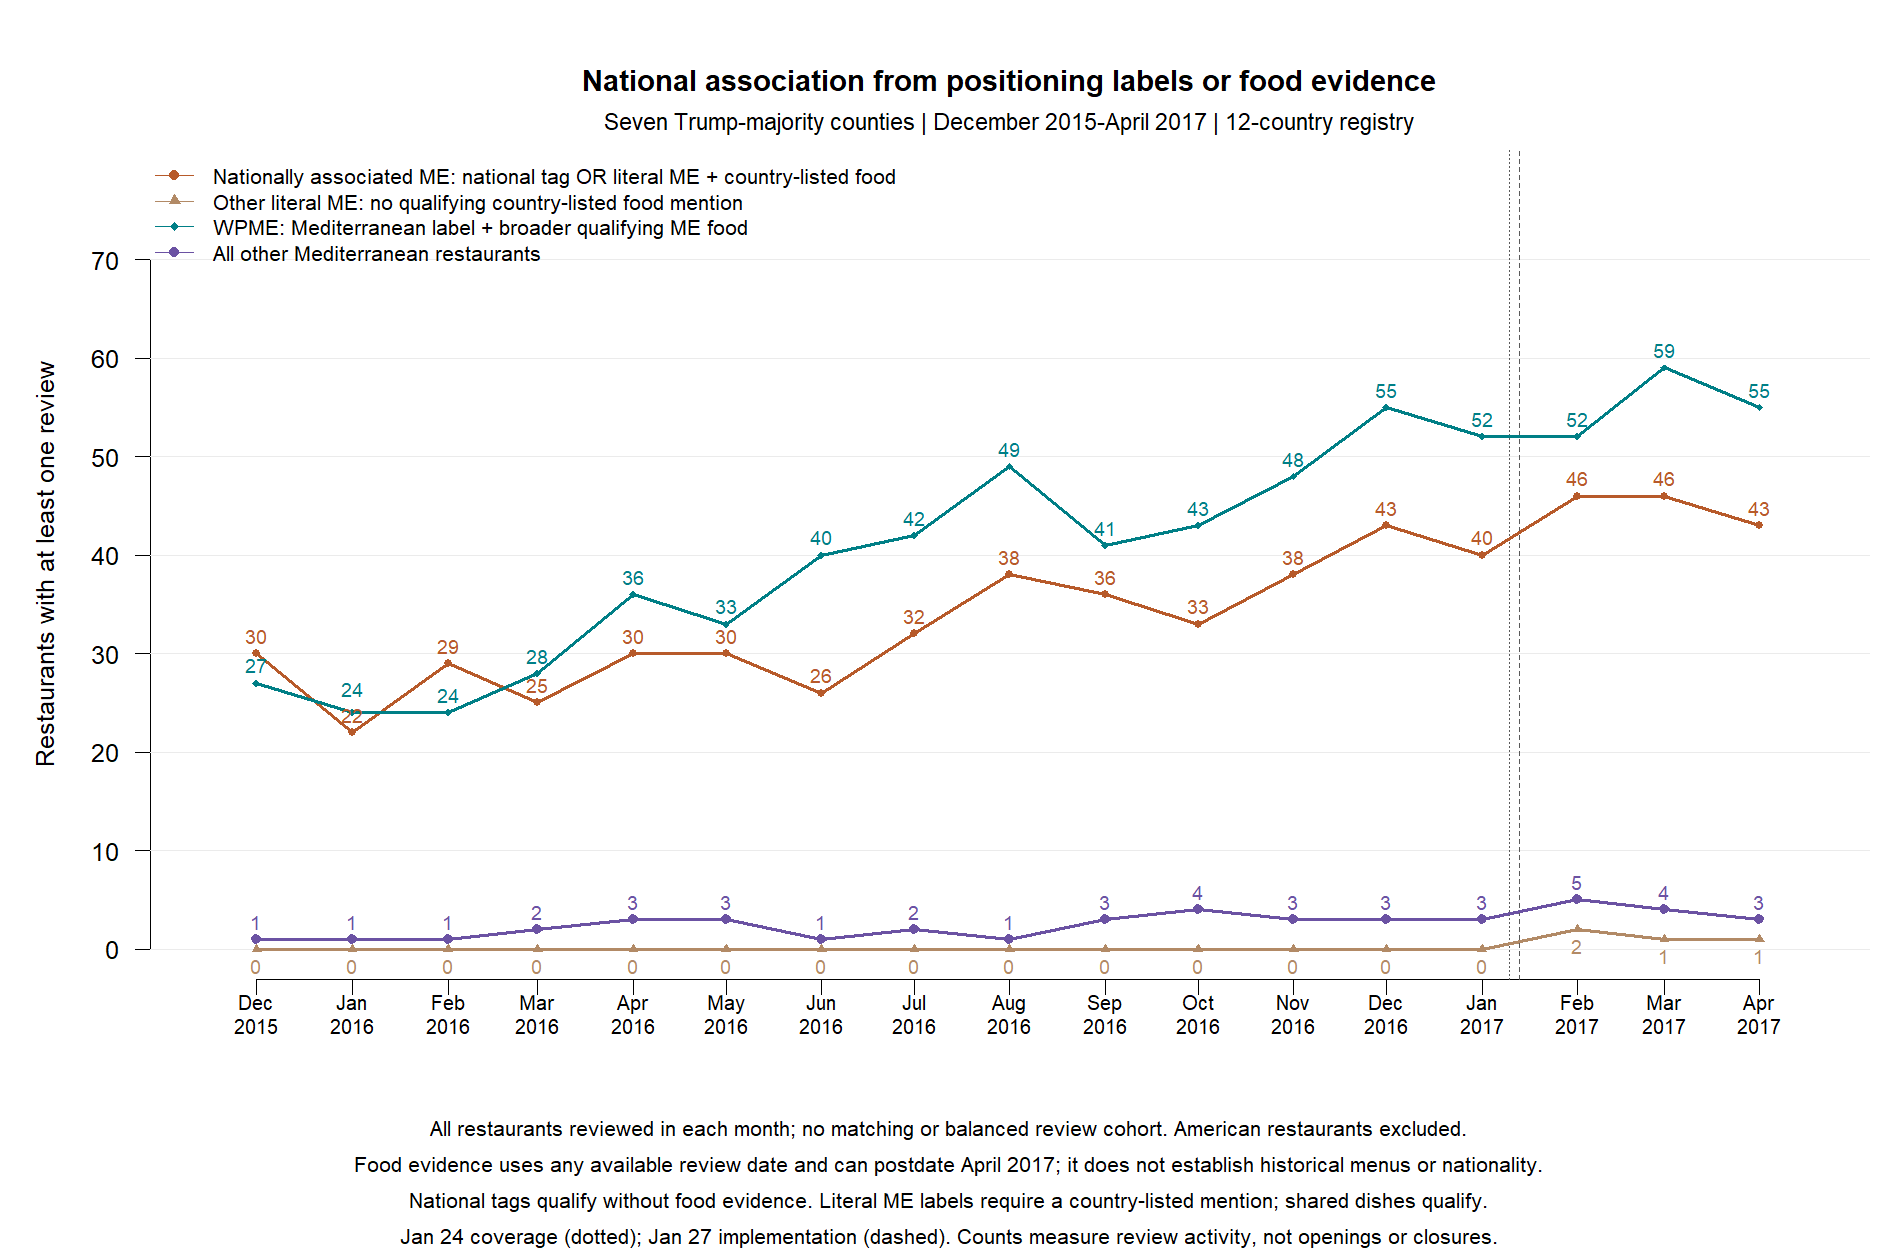
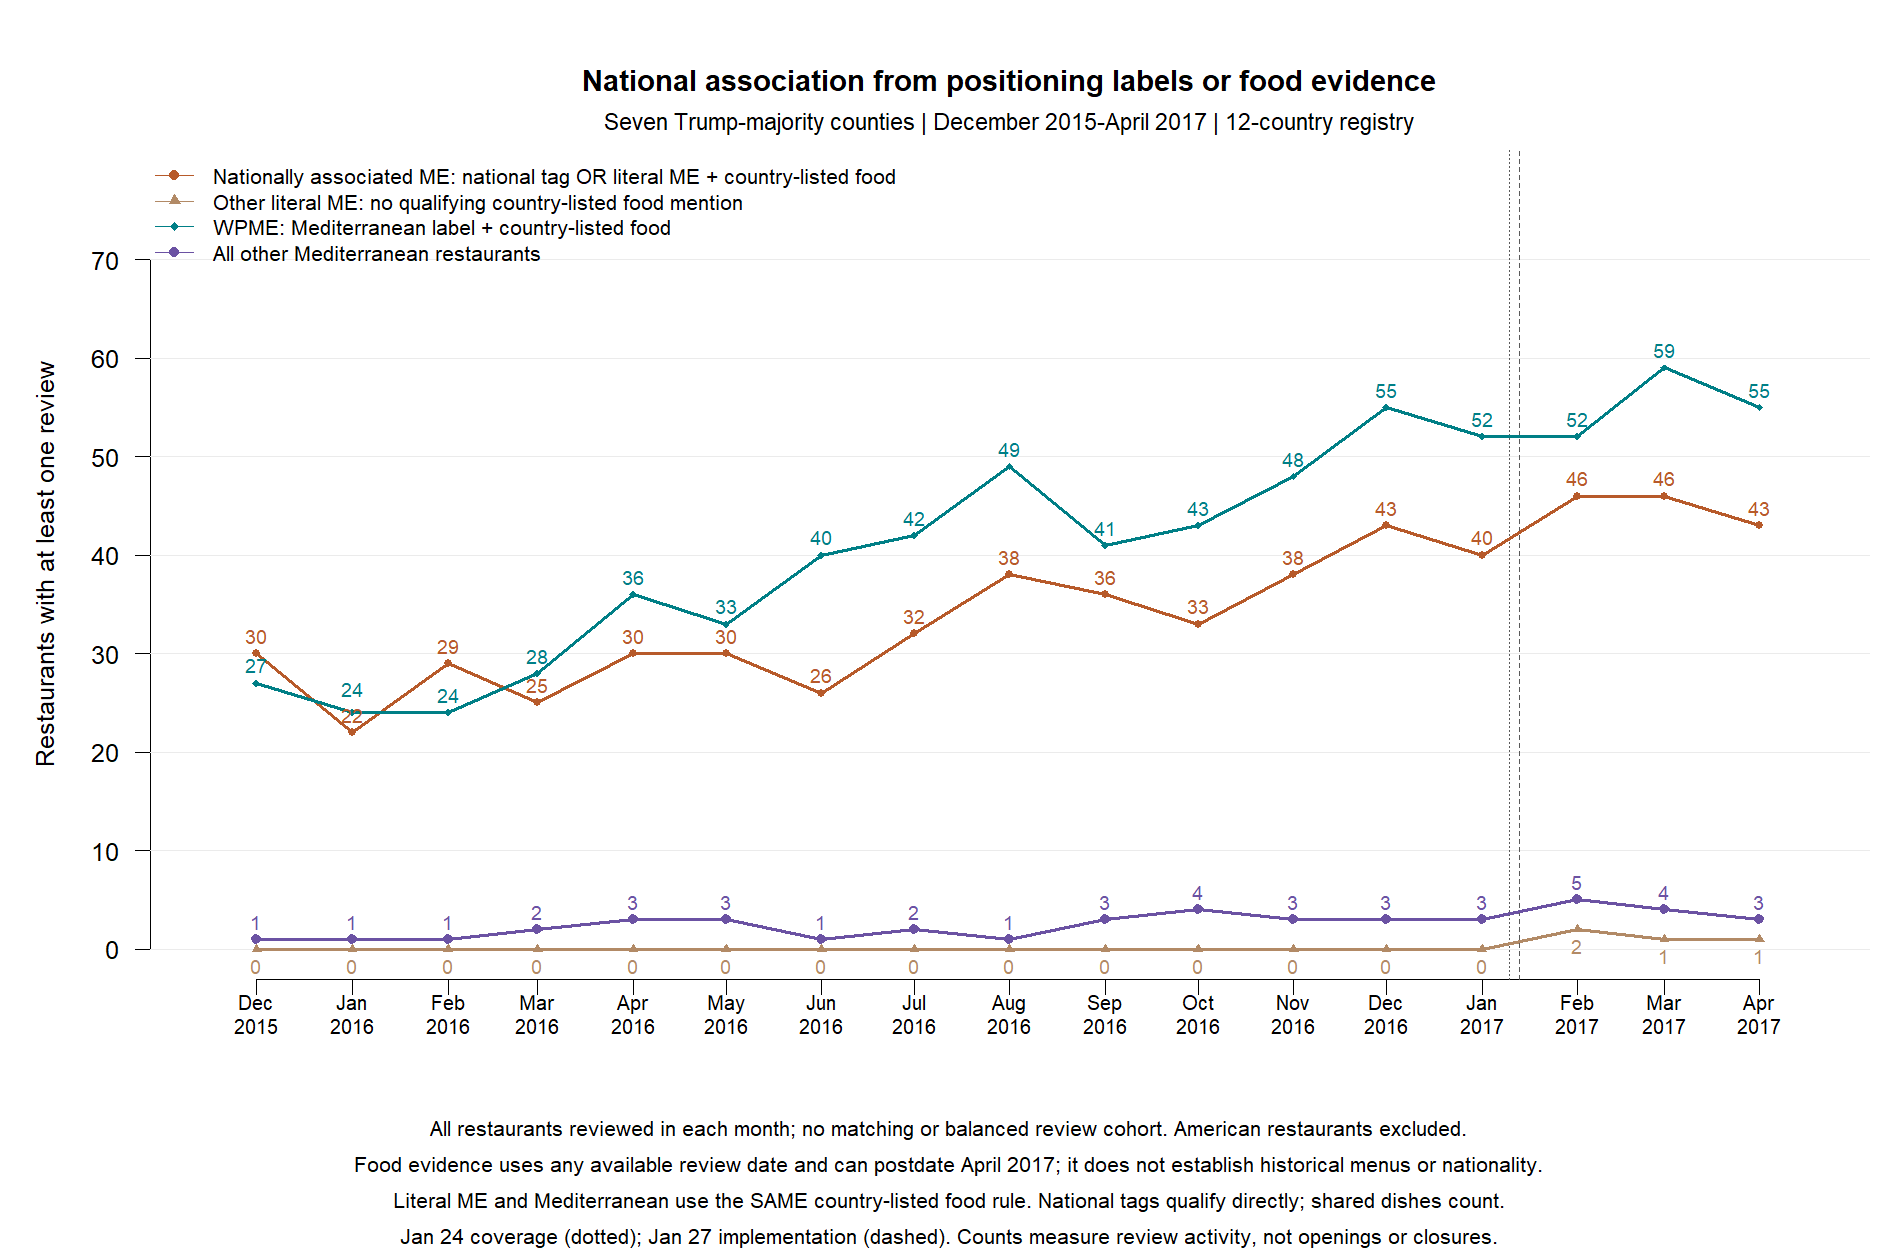
Align WPME with the same country-listed food rule used for literal ME

Changed region(s): [[0.2174, 0.936, 0.7763, 0.9672], [0.2484, 0.156, 0.4037, 0.1872]]

diff --git a/associational_analysis/19_country_registry.py b/associational_analysis/19_country_registry.py
@@ -99,7 +99,8 @@ for r in food:
     hits=[e for e in registry['entries'] if fs.intersection(e['feature_keys']) and e['country_list_qualifier']]
     cc=sorted({c for e in hits for c in e['countries']});tag=national_tags.get(category,'')
     eligible=bool(tag) or (category=='Middle Eastern restaurant' and bool(hits))
-    group='Nationally associated ME' if eligible else 'Other literal ME' if category=='Middle Eastern restaurant' else 'WPME' if r['broad_ME']=='1' else 'All other Mediterranean'
+    group='Nationally associated ME' if eligible else 'Other literal ME' if category=='Middle Eastern restaurant' else 'WPME' if hits else 'All other Mediterranean'
+    if category=='Mediterranean restaurant':assert (group=='WPME')==bool(hits)
     assert category in national_tags or category in ['Middle Eastern restaurant','Mediterranean restaurant']
     route='national tag + food evidence' if tag and hits else 'national tag only' if tag else 'literal ME + food evidence' if eligible else 'outside nationally associated group'
     assign.append(dict(gmap_id=g,primary_category=category,group=group,route=route,label_country=tag,food_countries='|'.join(cc),country_dish_ids='|'.join(e['dish_id'] for e in hits),active_in_plot=int(g in active)))

diff --git a/associational_analysis/README.md b/associational_analysis/README.md
@@ -147,10 +147,12 @@ The user explicitly added **baba ghanoush, shawarma, tabbouleh, labneh, zaatar, 
 
 Run `19_country_registry.py`, then `20_national_association_figure.R`. The versioned `dictionaries/country_food_registry_v1.json` separates broader ME eligibility from documented country-list membership. It preserves original country sources with an inherited-source flag and adds checked sources for Afghanistan, Armenia, Egypt, Lebanon and Morocco, plus the seven new broader terms. Coverage is nonexhaustive and uneven across countries. These are documented culinary associations, not claims of exclusive origins. Identical normalized aliases are joined; distinct named preparations are retained. A dish is shared only when associated with multiple countries in the registry. Single-listed does not mean nationally exclusive. Koobideh and adas polo remain single-listed under Iran. Broader foods without a documented country link remain broader-only rather than receiving guessed links.
 
-The user-selected **Nationally associated ME** group is the union of (a) qualifying national primary tags, without a food requirement, and (b) literal Middle Eastern primary tags with at least one country-listed dish mention. National tags are Afghani, Armenian, Egyptian, Lebanese, Moroccan, Persian, Syrian and Yemenite restaurant. Other literal ME retains literal Middle Eastern tags without qualifying country-list evidence. WPME remains Mediterranean-primary-label restaurants with broader ME food evidence, and All other Mediterranean includes every remaining Mediterranean-primary-label restaurant. The four groups are mutually exclusive; multiple country associations never duplicate a restaurant. Food evidence and label country are retained separately in private assignments, including whether the restaurant qualifies through a label, food evidence, or both. This combined construct should not be called national positioning: some members display only a regional label.
+The user-selected **Nationally associated ME** group is the union of (a) qualifying national primary tags, without a food requirement, and (b) literal Middle Eastern primary tags with at least one country-listed dish mention. National tags are Afghani, Armenian, Egyptian, Lebanese, Moroccan, Persian, Syrian and Yemenite restaurant. Other literal ME retains literal Middle Eastern tags without qualifying country-list evidence. WPME requires a Mediterranean primary label plus at least one country-listed food mention, using exactly the same food eligibility rule as literal ME restaurants, and All other Mediterranean includes every remaining Mediterranean-primary-label restaurant. The four groups are mutually exclusive; multiple country associations never duplicate a restaurant. Food evidence and label country are retained separately in private assignments, including whether the restaurant qualifies through a label, food evidence, or both. This combined construct should not be called national positioning: some members display only a regional label.
 
 The food evidence window remains any available valid-star review, retrospectively applied to December 2015-April 2017. The unchanged feature definitions allow reusing the complete expanded raw-scan feature cache; this step does not rescan raw text. Hashes record the inputs. Mentions are regex matches, without contextual adjudication of negation or other-restaurant references. No verified authenticity, nationality or historical menu is inferred. Earlier definitions and figures remain intact. Monthly counts include every review-active restaurant in the same seven counties, without a balanced review cohort, matching or Americans. The new partition retains all 124 active restaurants: nationally associated ME 50 (19 national tags and 31 literal ME plus food evidence), other literal ME 2, WPME 67, and all other Mediterranean 5. All 19 active national-tagged restaurants also have country-list evidence, but this is not required. Private restaurant IDs remain local. Aggregate dictionary, routes, counts, audit and figure use the `national_association` prefix.
 
 Run step 13 with `--any-date --expanded`, step 17 with `--expanded`, and step 18 with `--expanded`. Separate outputs use the `positioning_expanded_anydate` prefix and preserve earlier dictionaries and results. The food scan may reuse a previous complete any-date scan's zero-eligible-text result for a source file only after verifying identical restaurant IDs and unchanged size/mtime for all 52 raw files against the source manifest. Files with eligible text are rescanned for the new terms. The audit records rescanned versus verified-empty files. The monthly activity universe and date range remain unchanged; only WPME versus All other Mediterranean assignments can change. Expanded profiles must retain all earlier features, and the seven-country indicator must be identical. Added-food counts describe overlapping mentions among newly classified WPME restaurants, not an additive attribution of changes.
 
 
+
+The subsequent WPME correction aligns its eligibility with country-listed food evidence rather than the broader dictionary. Rerunning leaves all assignments and monthly counts unchanged: all 67 active WPME restaurants have at least one country-listed mention. National tags still qualify directly without food evidence.
